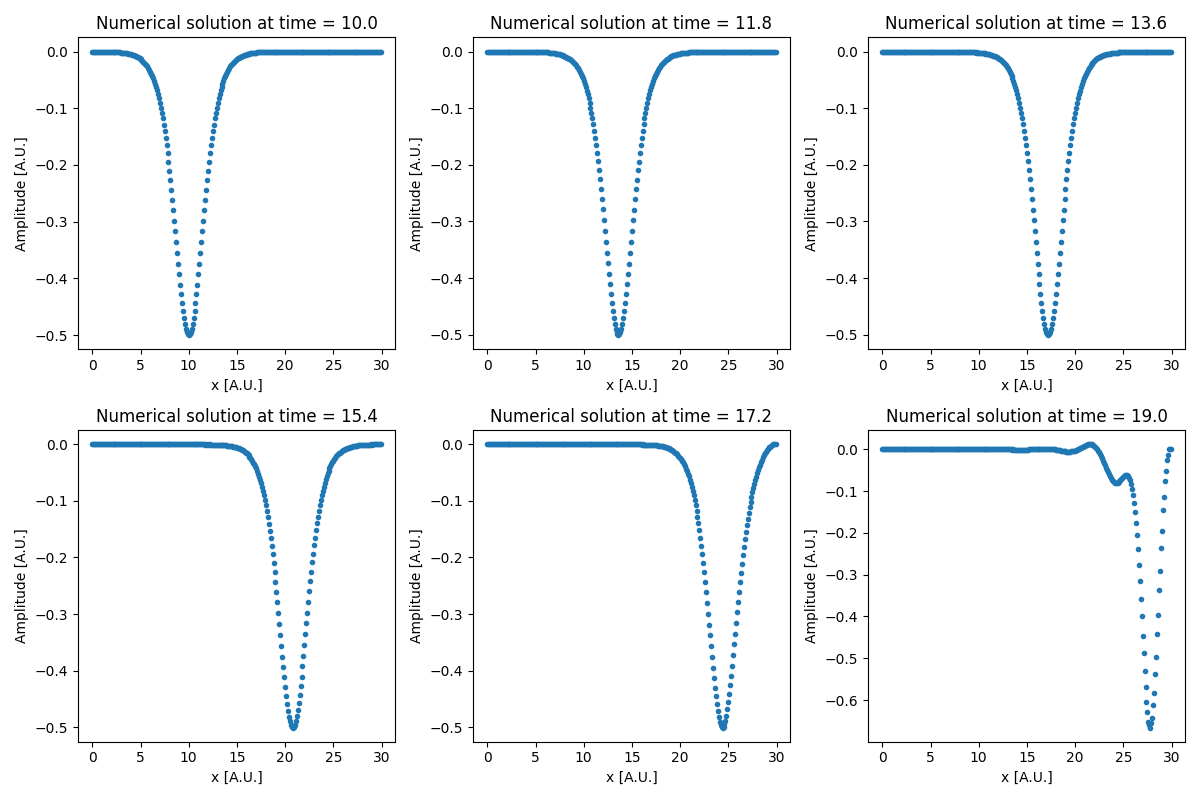
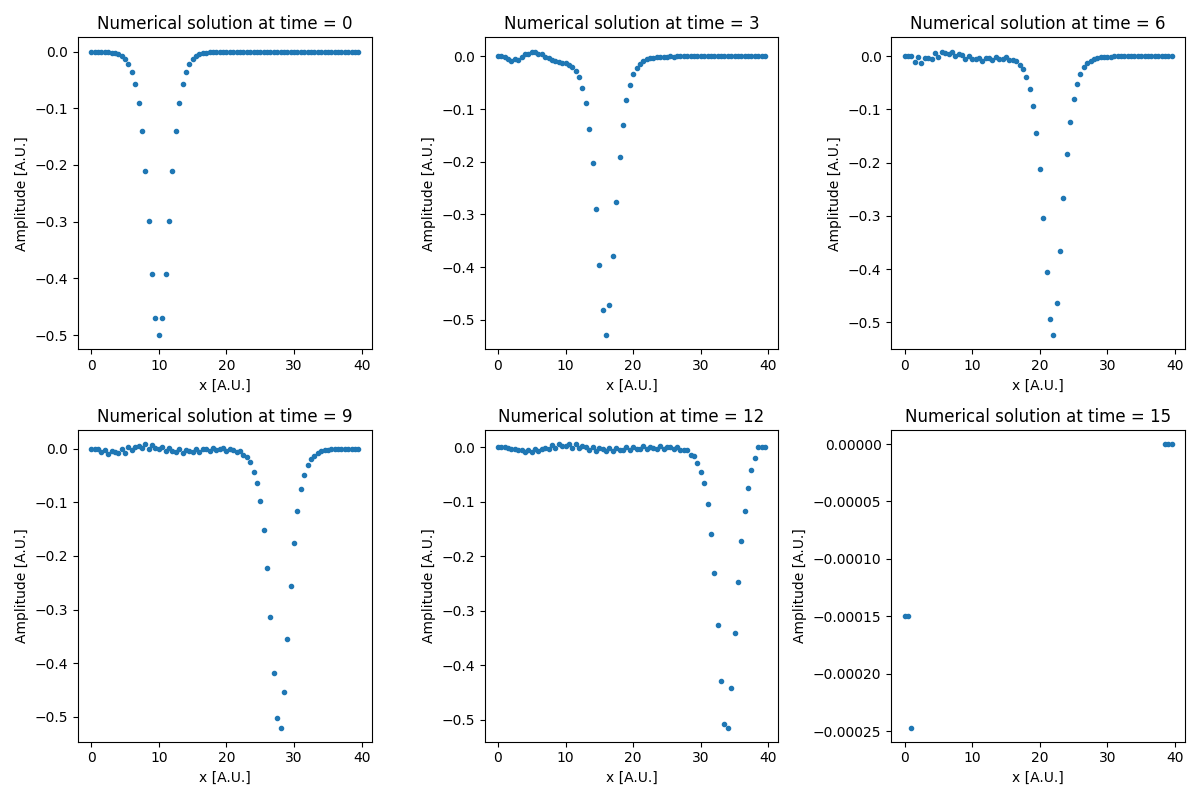
try of a new code

diff --git a/solver.py b/solver.py
@@ -1,0 +1,97 @@
+### In this script we will implement the finite difference method to solve the Korteveg DeVries equation. 
+
+import numpy as np
+import matplotlib.pyplot as plt
+from soliton_plot import *
+
+def KdV_Solver(u, Delta_x, Delta_t, mu=1, eps=-6):
+    """
+    Computes the solution to the KdV equation using finite difference method.
+
+    :param u: A soliton (or other wavefunction) at a time t=0.
+    :type u: np.array, shape (N,)
+
+    :param T: Maximum time that should be solved for.
+    :type T: float
+
+    :param Delta_x: Position step size.
+    :type Delta_x: float
+
+    :param Delta_t: Time step size.
+    :type Delta_t: float
+
+    :param mu: Dispersion coefficient.
+    :type mu: float (optional)
+
+    :param eps: Nonlinearity coefficient, epsilon.
+    :type eps: float (optional)
+
+    :param N_step_x: Number of spatial steps.
+    :type N_step_x: int
+
+    :return: The solution at time T.
+    :rtype: np.array, shape (N,)
+    """
+   
+    t_size = len(u[0,:])
+    x_size = len(u[:,0])
+
+    
+    for j in range(t_size-1):
+        for i in range(2, x_size -2):
+
+            if j == 0:
+                u[i,j+1] = u[i, j] - Delta_t/(2*Delta_x) * eps * u[i,j] * (u[i+1,j] - u[i-1,j]) - Delta_t/(2*Delta_x**3) * mu *(u[i+2,j] - 2*u[i+1,j] +2*u[i-1,j]-u[i-1,j] )
+
+            else:
+                u[i,j+1] = u[i, j-1] - Delta_t/Delta_x * eps * u[i,j] * (u[i+1,j] - u[i-1,j]) - Delta_t/Delta_x**3 * mu *(u[i+2,j] - 2*u[i+1,j] +2*u[i-1,j]-u[i-1,j] )
+
+        # We assume fixed values for
+        u[1,j] = 0
+        u[-2,j] = 0
+
+        # We fix the derivative to be zero at the boundary:
+        u[0,j] = u[1,j] 
+        u[-1,j] = u[-2,j]
+    
+    return u 
+        
+## Let's test the solver:
+if __name__ == "__main__":
+
+    ## Defining constants: ##
+    Delta_x = 1                       # Spacial step size
+    X_max = 40                          # System length
+    x_size = int(X_max/Delta_x)         # Number of steps in position
+
+    Delta_t = 0.001
+    T_max = 20
+    t_size = int(T_max/Delta_t)
+
+    u = np.zeros([x_size, t_size], dtype = float)
+
+    # Initial condition
+    x_series=[n*Delta_x for n in range(x_size)]                      # A 1xN array of the positions 
+    t_0 = 10                                                         # initial time
+    u[:,0]=np.array([soliton_solution(x,t_0) for x in x_series])    # With the imported function from soliton_plot.py we find the Soliton for t=0.
+    
+    # Let's compute the solution!
+    u_solution = KdV_Solver(u, Delta_x, Delta_t)
+
+    # Plotting results
+    fig,axes=plt.subplots(2,3,figsize=(12,8))
+    T_series=range(0,18,3)
+
+    
+    # Each subplot of A_series[i] vs. x_series:
+    for i, ax in enumerate(axes.flat):
+        ax.plot(x_series, u_solution[:,int(1./Delta_t * (T_series[i]))],".")  # Plot each A_series element
+        ax.set_title(f't = {t_0 + T_series[i]}')
+        ax.set_xlabel('x [A.U.]')
+        ax.set_ylabel('Amplitude [A.U.]')
+    
+    
+    # To prevent overlap
+    plt.tight_layout()
+    plt.savefig("Soliton_plot_try.png")
+    plt.show()

diff --git a/finite_difference.py b/finite_difference.py
@@ -1,3 +1,4 @@
+
 ### In this script we will implement the finite difference method to solve the Korteveg DeVries equation. 
 
 import numpy as np
